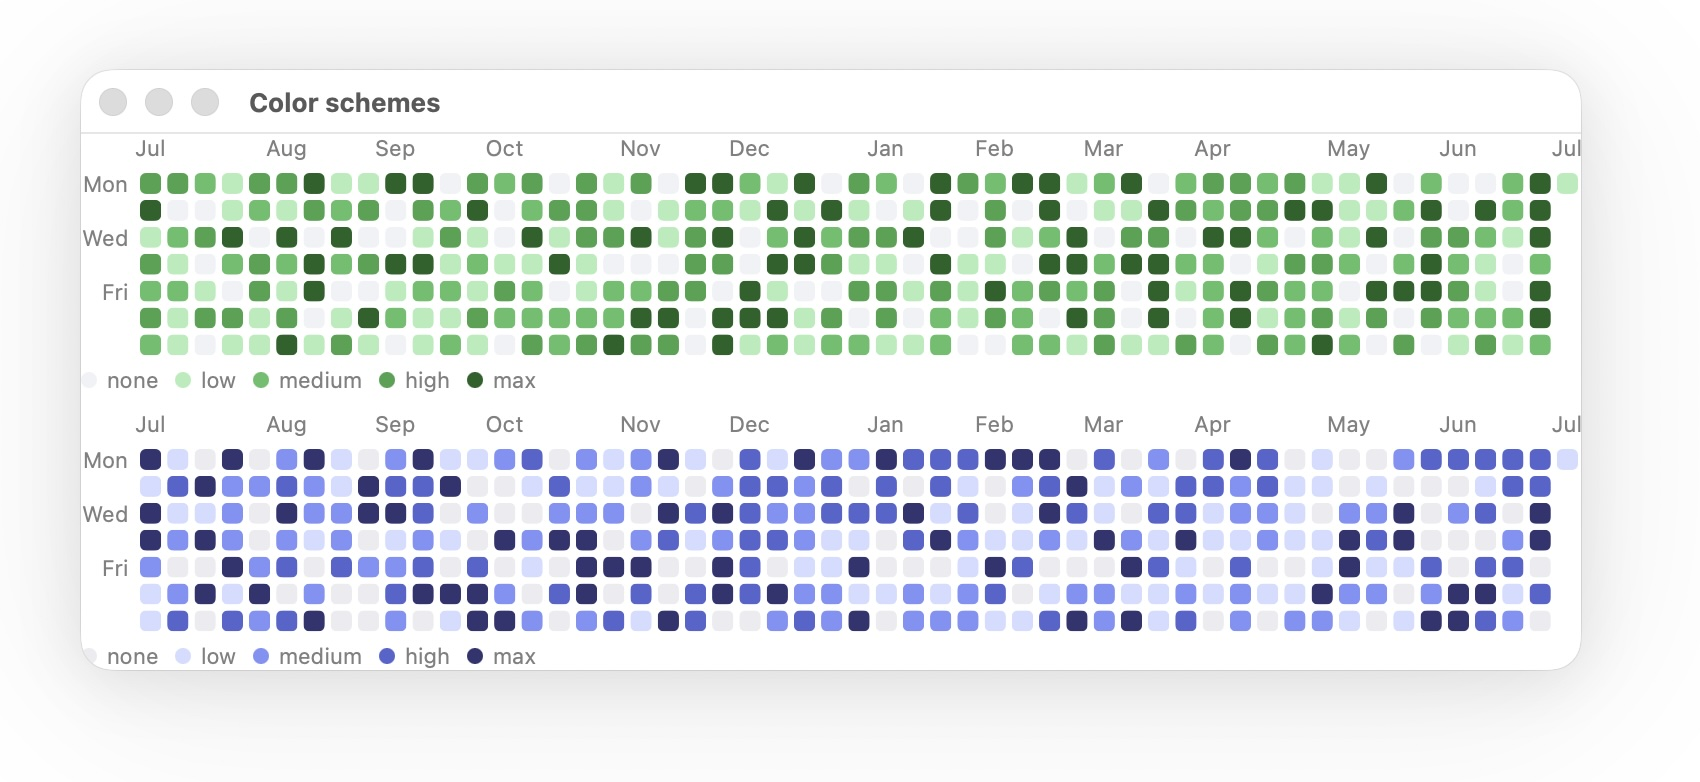
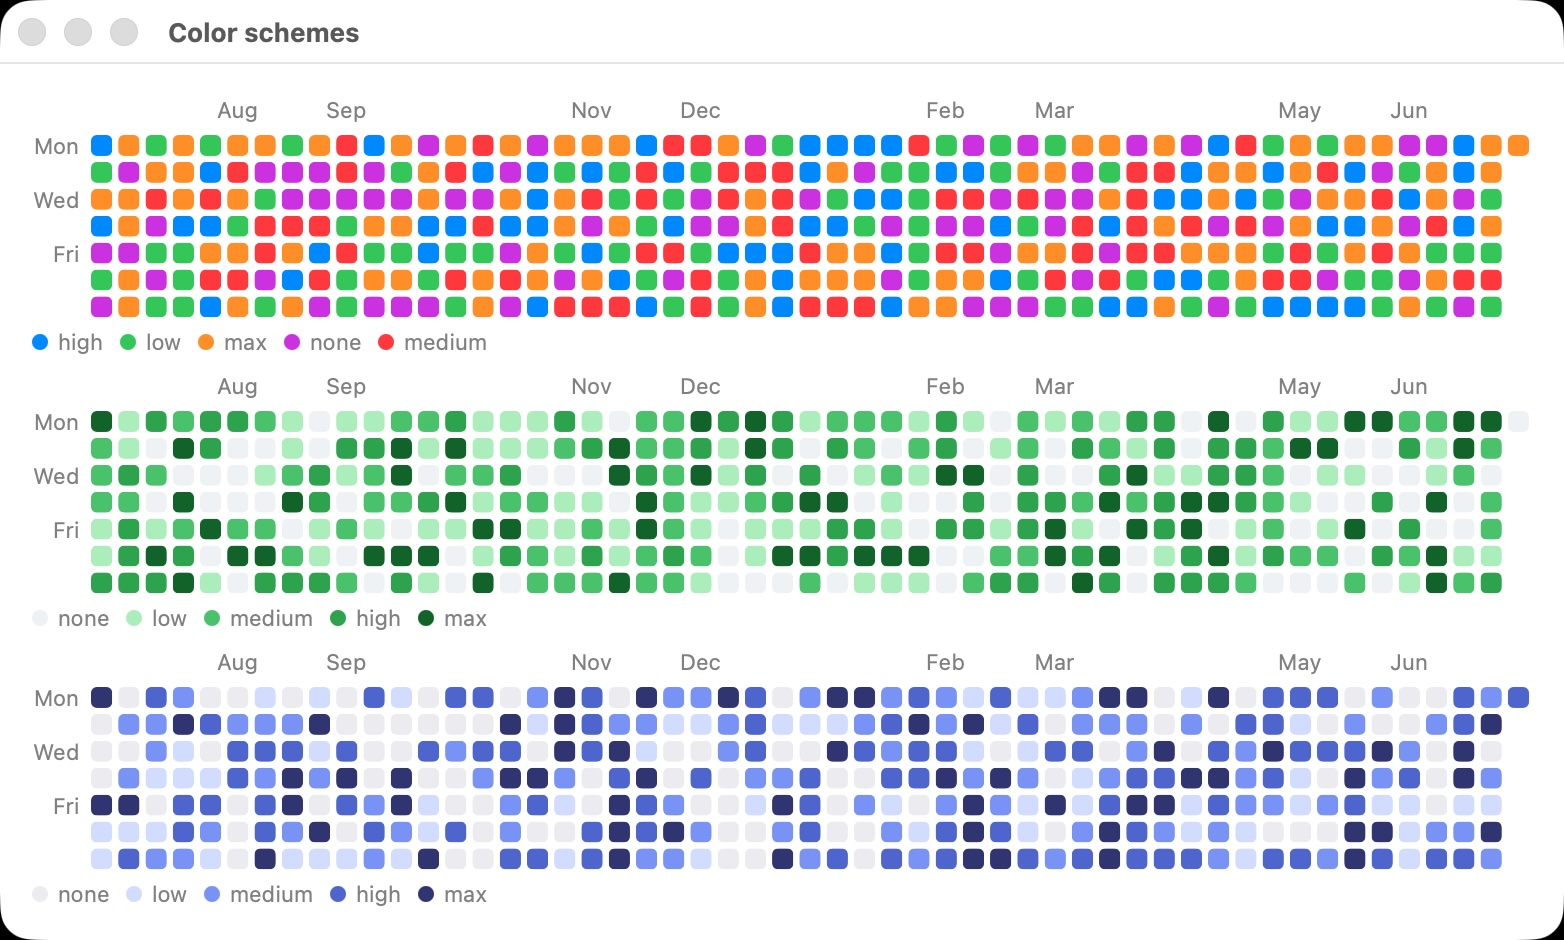
Begin rendering at full weeks

diff --git a/Sources/Heatmap/ContributionsHeatmap.swift b/Sources/Heatmap/ContributionsHeatmap.swift
@@ -10,11 +10,12 @@ import Charts
 
 public struct ContributionsHeatmap: View {
 
-    private let data: [ContributionsHeatmapEntry]
-
     private let markInsets: MarkInsets
 
     private let markCornerRadius: CGFloat
+
+    @State
+    private var data: [ContributionsHeatmapEntry]
 
     @Environment(\.calendar)
     private var calendar
@@ -25,6 +26,7 @@ public struct ContributionsHeatmap: View {
         data: [ContributionsHeatmapEntry]
     ) {
         self.data = data
+
         self.markInsets = markInsets
         self.markCornerRadius = markCornerRadius
     }
@@ -42,6 +44,11 @@ public struct ContributionsHeatmap: View {
         }
         .chartXAxis { xAxis }
         .chartYAxis { yAxis }
+        .onChange(of: calendar, initial: true) { _, calendar in
+            data = Array(data.drop(while: {
+                Int($0.dayOfWeek) != calendar.firstWeekday
+            }))
+        }
     }
 
 }
@@ -72,7 +79,7 @@ private extension ContributionsHeatmap {
         let components = DateComponents(
             calendar: calendar,
             year: year,
-            weekday: 1,
+            weekday: calendar.firstWeekday,
             weekOfYear: weekOfYear
         )
 
@@ -108,7 +115,7 @@ private extension ContributionsHeatmap {
 
 // MARK: - Previews
 
-#Preview {
+#Preview("ContributionsHeatmap") {
     ContributionsHeatmap(
         data: .previewFullYear
     )
@@ -159,6 +166,21 @@ private extension ContributionsHeatmap {
             width: 750,
             height: 130
         )
+    }
+    .padding()
+}
+
+#Preview("All weekdays") {
+    VStack {
+        ForEach(0..<7) { offset in
+            ContributionsHeatmap(data: .previewFullYear(from: Date.now.addingTimeInterval(TimeInterval(offset) * 24 * 60 * 60)))
+                .chartForegroundStyleScale(.gitHub)
+                .chartLegend(.hidden)
+                .frame(
+                    width: 750,
+                    height: 115
+                )
+        }
     }
     .padding()
 }

diff --git a/Sources/Heatmap/ContributionsHeatmapEntry+Date.swift b/Sources/Heatmap/ContributionsHeatmapEntry+Date.swift
@@ -41,15 +41,16 @@ extension [ContributionsHeatmapEntry] {
     }
 
     static func previewFullYear(from reference: Date) -> Self {
-        let values = (0..<365).compactMap { offset in
-            let date = reference.addingTimeInterval(Double(24 * 60 * 60 * offset))
+        (0..<365)
+            .reversed()
+            .compactMap { offset in
+                let date = reference.addingTimeInterval(Double(24 * 60 * 60 * -offset))
 
-            return ContributionsHeatmapEntry(
-                on: date,
-                level: ContributionLevel.allCases.randomElement() ?? .none
-            )
-        }
-        return values
+                return ContributionsHeatmapEntry(
+                    on: date,
+                    level: ContributionLevel.allCases.randomElement() ?? .none
+                )
+            }
     }
 
 }

diff --git a/Package.swift b/Package.swift
@@ -5,12 +5,12 @@ import PackageDescription
 let package = Package(
     name: "ContributionsHeatmap",
     platforms: [
-        .iOS(.v16),
-        .macCatalyst(.v16),
-        .macOS(.v13),
-        .tvOS(.v16),
-        .visionOS(.v1),
-        .watchOS(.v9)
+        .iOS(.v17),
+        .macCatalyst(.v17),
+        .macOS(.v14),
+        .tvOS(.v17),
+        .visionOS(.v2),
+        .watchOS(.v10)
     ],
     products: [
         .library(

diff --git a/README.md b/README.md
@@ -2,17 +2,17 @@
 
 A heatmap in the style of GitHub's contributions heatmap on each user profile.
 
-![Screenshot of a contributions heatmap](screenshot.jpg)
+![Screenshot of a contributions heatmap](ContributionsHeatmap.jpg)
 
 ## Requirements
 
-This package uses Swift Charts under the hood, and has the same requirements:
+This package uses Swift Charts under the hood, and has the following requirements:
 
-- macOS 13
-- iOS 16
-- tvOS 16
-- watchOS 9
-- visionOS 1
+- macOS 14
+- iOS 17
+- tvOS 17
+- watchOS 10
+- visionOS 2
 
 ## Installation
 